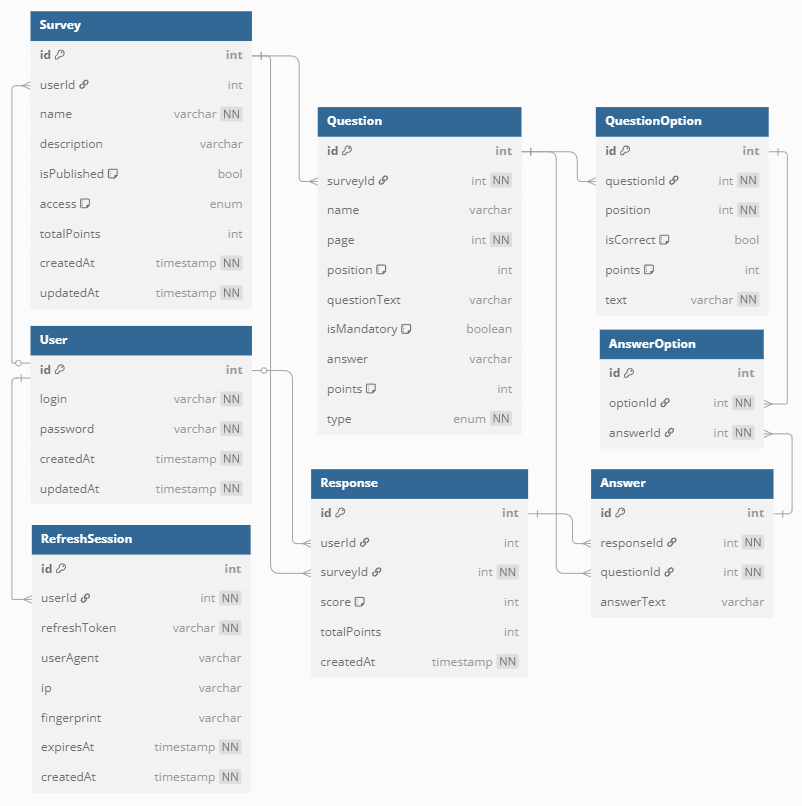
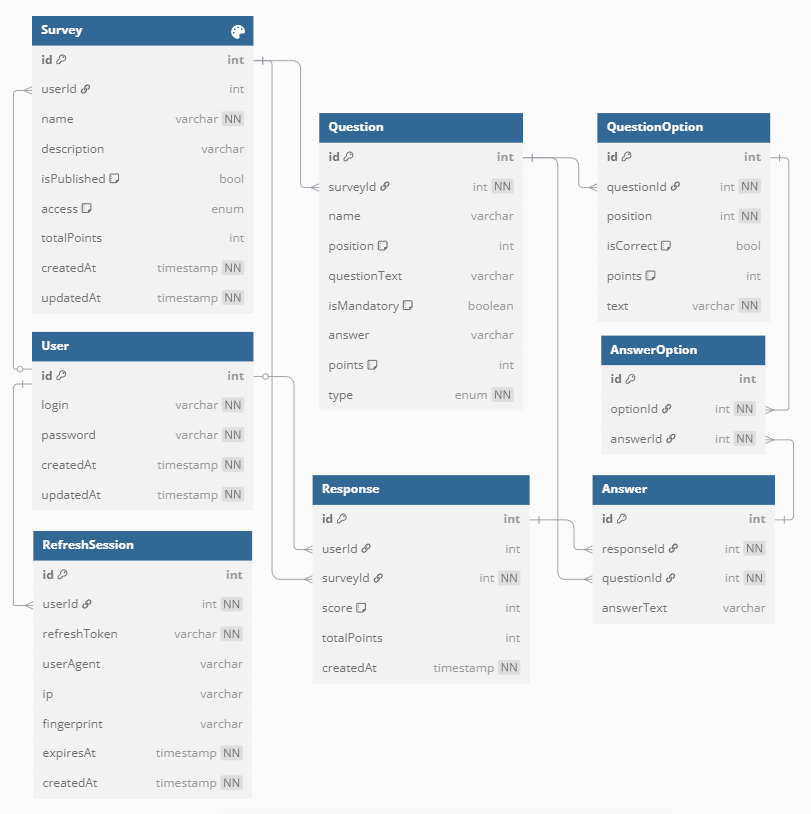
refactor: remove page

diff --git a/src/users/dto/create-user.dto.ts b/src/users/dto/create-user.dto.ts
@@ -5,7 +5,7 @@ export class CreateUserDto {
   @ApiProperty({ description: 'Логин пользователя', minLength: 4 })
   @IsNotEmpty({ message: 'Login is required' })
   @MinLength(4, { message: 'Login must be larger then 3 characters' })
-  @Matches(/^[a-zA-Z0-9]+$/, { message: 'Login must be a without spaces and special characers' })
+  @Matches(/^[a-zA-Z0-9_\-]+$/, { message: 'Login must be without spaces and special characers' })
   login: string;
 
   @ApiProperty({ description: 'Пароль пользователя', minLength: 5 })

diff --git a/src/questions/dto/update-question.dto.ts b/src/questions/dto/update-question.dto.ts
@@ -12,14 +12,6 @@ export class UpdateQuestionDto {
   name: string;
 
   @ApiPropertyOptional({
-    description: 'Номер страницы, на которой должен находиться вопрос',
-    example: 1
-  })
-  @IsInt()
-  @IsOptional()
-  page: number;
-
-  @ApiPropertyOptional({
     description: 'Позиция на которой должен находиться вопрос в опросе',
     example: 2
   })

diff --git a/src/questions/dto/create-question.dto.ts b/src/questions/dto/create-question.dto.ts
@@ -11,15 +11,6 @@ export class CreateQuestionDto {
   @IsOptional()
   name: string;
 
-  @ApiPropertyOptional({
-    description: 'Номер страницы, на которой находится вопрос',
-    example: 1
-  })
-  @IsInt()
-  @IsOptional()
-  @Min(1, { message: 'Page cannot be less than 1' })
-  page: number;
-
   @ApiProperty({
     description: 'Позиция вопроса на странице',
     example: 2

diff --git a/src/questions/questions.service.ts b/src/questions/questions.service.ts
@@ -1,5 +1,5 @@
 import { BadRequestException, Injectable, Logger, NotFoundException } from '@nestjs/common';
-import { DataSource, DeleteResult, In, QueryRunner, Repository } from 'typeorm';
+import { DataSource, In, QueryRunner, Repository } from 'typeorm';
 import { QuestionEntity } from './entities/question.entity';
 import { InjectRepository } from '@nestjs/typeorm';
 import { CreateQuestionDto } from './dto/create-question.dto';

diff --git a/src/questions/entities/question.entity.ts b/src/questions/entities/question.entity.ts
@@ -19,9 +19,6 @@ export class QuestionEntity extends BaseEntity {
   @Column({ type: 'varchar', length: 255, default: 'Новый вопрос' })
   name: string = 'Новый вопрос';
 
-  @Column({ type: 'integer', default: 1 })
-  page: number = 1;
-
   @Column({ type: 'integer', nullable: false })
   position!: number;
 

diff --git a/src/surveys/surveys.service.ts b/src/surveys/surveys.service.ts
@@ -210,7 +210,6 @@ export class SurveysService {
         "survey.totalPoints",
         "questions.id",
         "questions.name",
-        "questions.page",
         "questions.position",
         "questions.questionText",
         "questions.isMandatory",

diff --git a/README.md b/README.md
@@ -1,8 +1,8 @@
-# Multi page forms backend - NestJS + TypeScript + TypeORM + JWT
+# Multi forms backend - NestJS + TypeScript + TypeORM + JWT
 
 ## Цель проекта
 
-Разработать бэкенд, который будет являться упрощенным аналогом бэкенда Яндекс Форм.
+Разработать бэкенд, который будет являться упрощенным аналогом бэкенда Google Форм.
 
 ### Задачи
 
